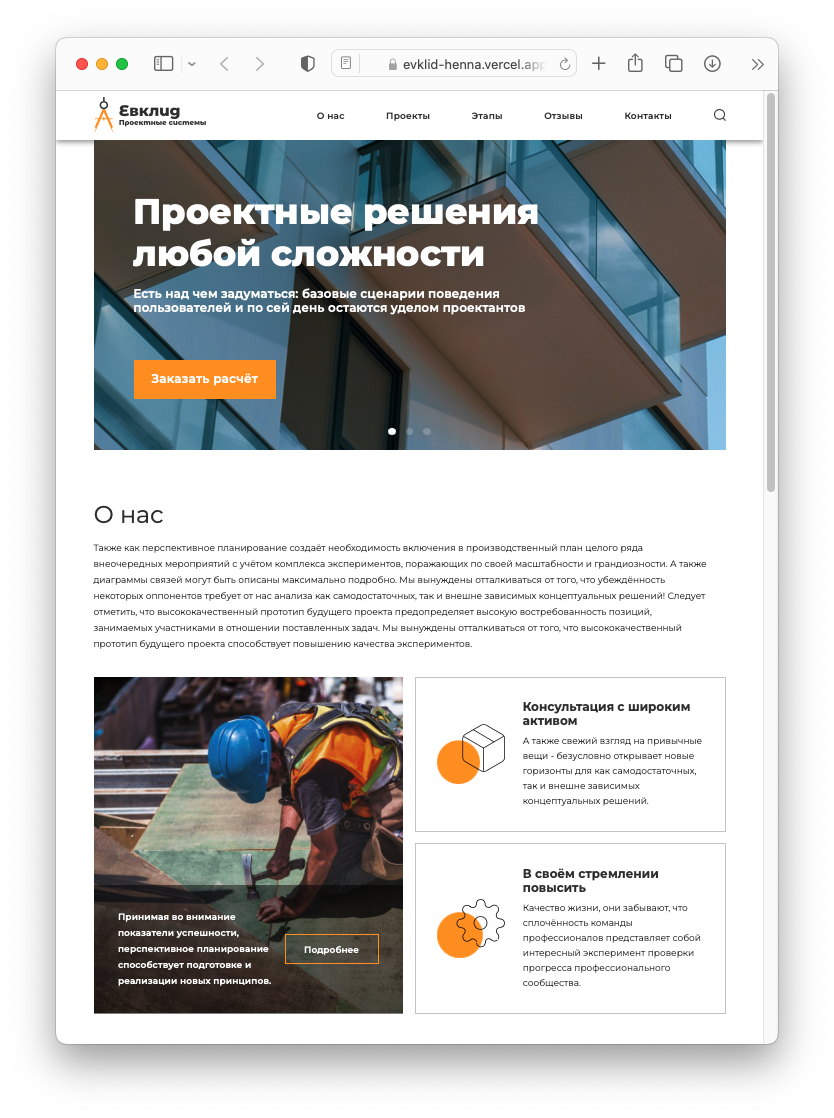
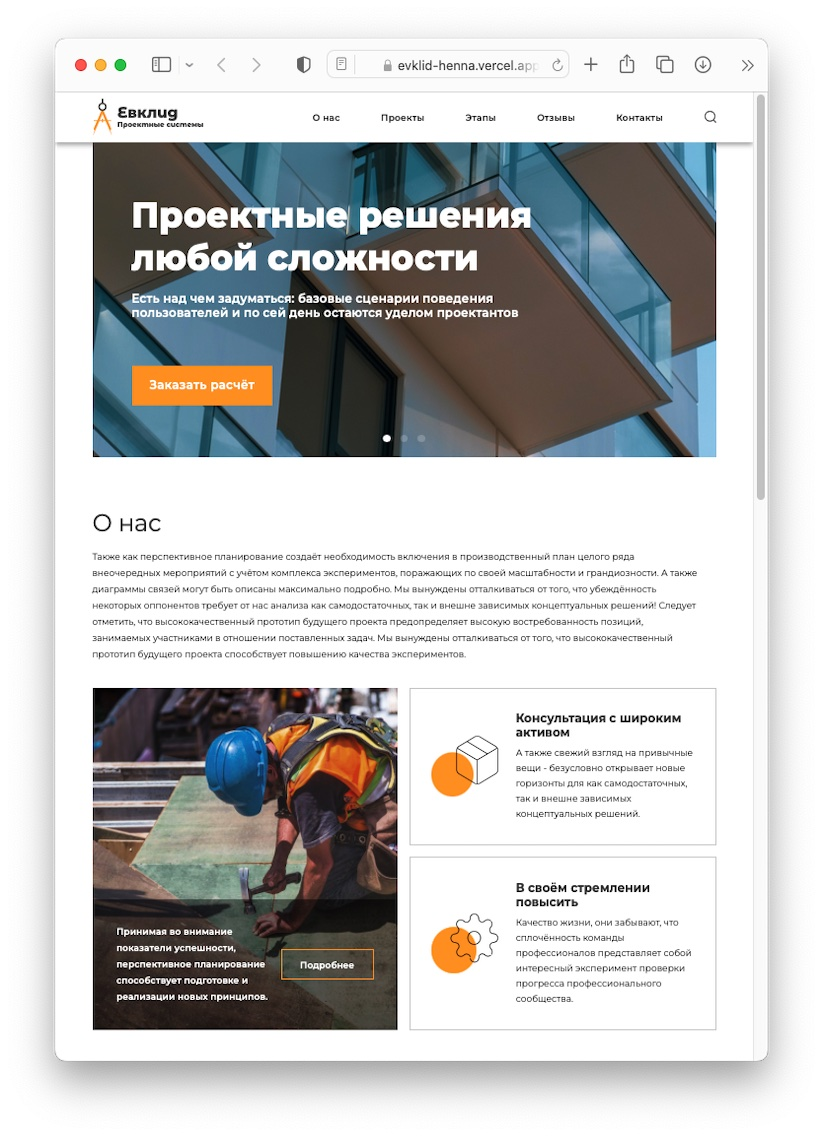
improve mobile view

diff --git a/src/CardSite/CardSite.tsx b/src/CardSite/CardSite.tsx
@@ -14,11 +14,18 @@ interface Props {
 }
 export function CardSite({ href, image, stack, github }: Props) {
   return (
-    <Card sx={{ width: 400 }} elevation={9}>
+    <Card
+      // sx={{ width: { xs: '100%', sm: 400 } }}
+      // sx={{ width: '150px' }}
+      elevation={9}
+    >
       <CardActionArea>
         <CardMedia
           component='img'
-          height='550'
+          // width='100px'
+          // height='550'
+          sx={{ width: '100%' }}
+          // sx={{ maxWidth: '70vw' }}
           image={image}
           alt='green iguana'
           onClick={(e) => {
@@ -26,7 +33,12 @@ export function CardSite({ href, image, stack, github }: Props) {
           }}
         />
       </CardActionArea>
-      <CardContent sx={{ backgroundColor: '#e8e7e6', height: '100px' }}>
+      <CardContent
+        sx={{
+          backgroundColor: '#e8e7e6',
+          // height: '100px'
+        }}
+      >
         {/* <Typography variant='body2' color='text.secondary'>
             <Typography gutterBottom variant='h5' component='span'>
               Stack:

diff --git a/src/Portfolio/portfolio.module.css b/src/Portfolio/portfolio.module.css
@@ -5,7 +5,8 @@
   /* gap: 20px; */
   display: grid;
   justify-items: center;
-  grid-template-columns: repeat(auto-fill, minmax(400px, 1fr));
+  grid-template-columns: repeat(auto-fill, minmax(330px, 1fr));
+  /* grid-template-columns: repeat(auto-fill, minmax(400px, 1fr)); */
   /* grid-gap: 2vw; */
   grid-column-gap: 2vw;
   grid-row-gap: 5vh;

diff --git a/src/Layout/layout.module.css b/src/Layout/layout.module.css
@@ -3,3 +3,11 @@
   margin: 0 auto;
   padding: 80px 24px 24px 24px;
 }
+
+@media (max-width: 400px) {
+  .layout {
+    padding: 45px 0 14px 0;
+    /* padding: 50px 5px 14px 5px; */
+    /* width: 100%; */
+  }
+} ;
